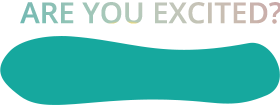
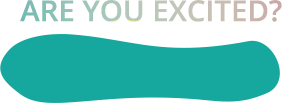
fix images and text!

diff --git a/public/css/all.css b/public/css/all.css
@@ -4178,8 +4178,8 @@ div[id^="attachment_"], div[id*=" attachment_"] {
 
 .box-discount-v2 .discount-banner {
     background: url('../images/discount/bg_discount_banner1.png') no-repeat;
-    width: 280px;
-    height: 105px;
+    width: 282px;
+    height: 103px;
     padding: 49px 0px 20px 37px;
     line-height: 1;
 }
